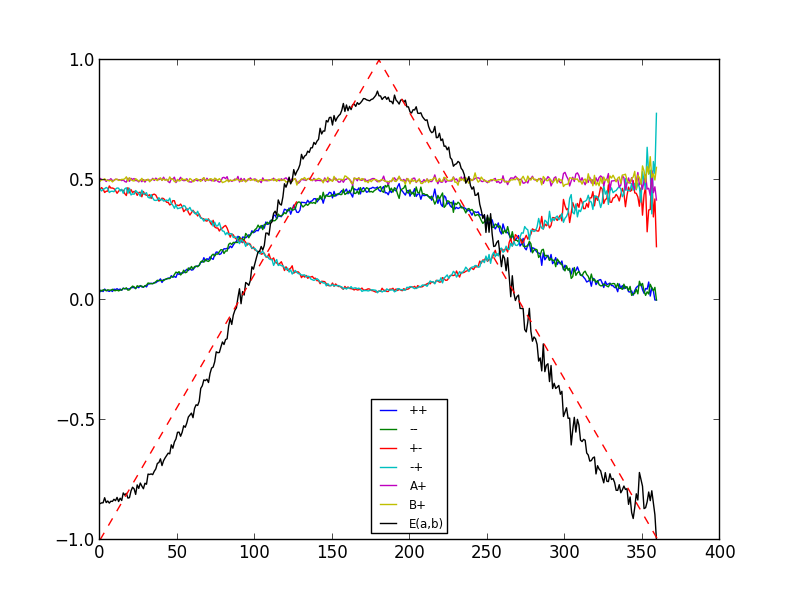
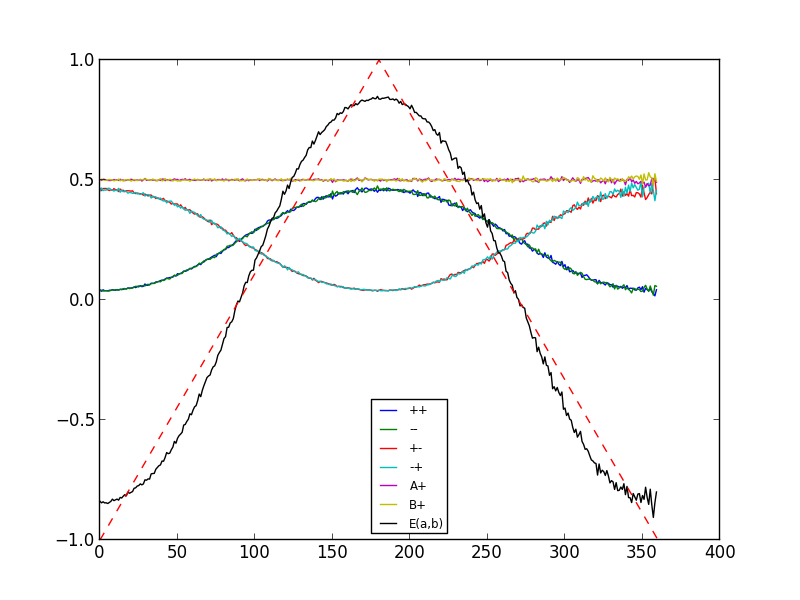
- added 'classical' lines

diff --git a/epr.py b/epr.py
@@ -183,5 +183,5 @@ class Simulation(object):
            
 if __name__ == '__main__':
     sim = Simulation()
-    #sim.run()
+    sim.run()
     sim.analyse()        
